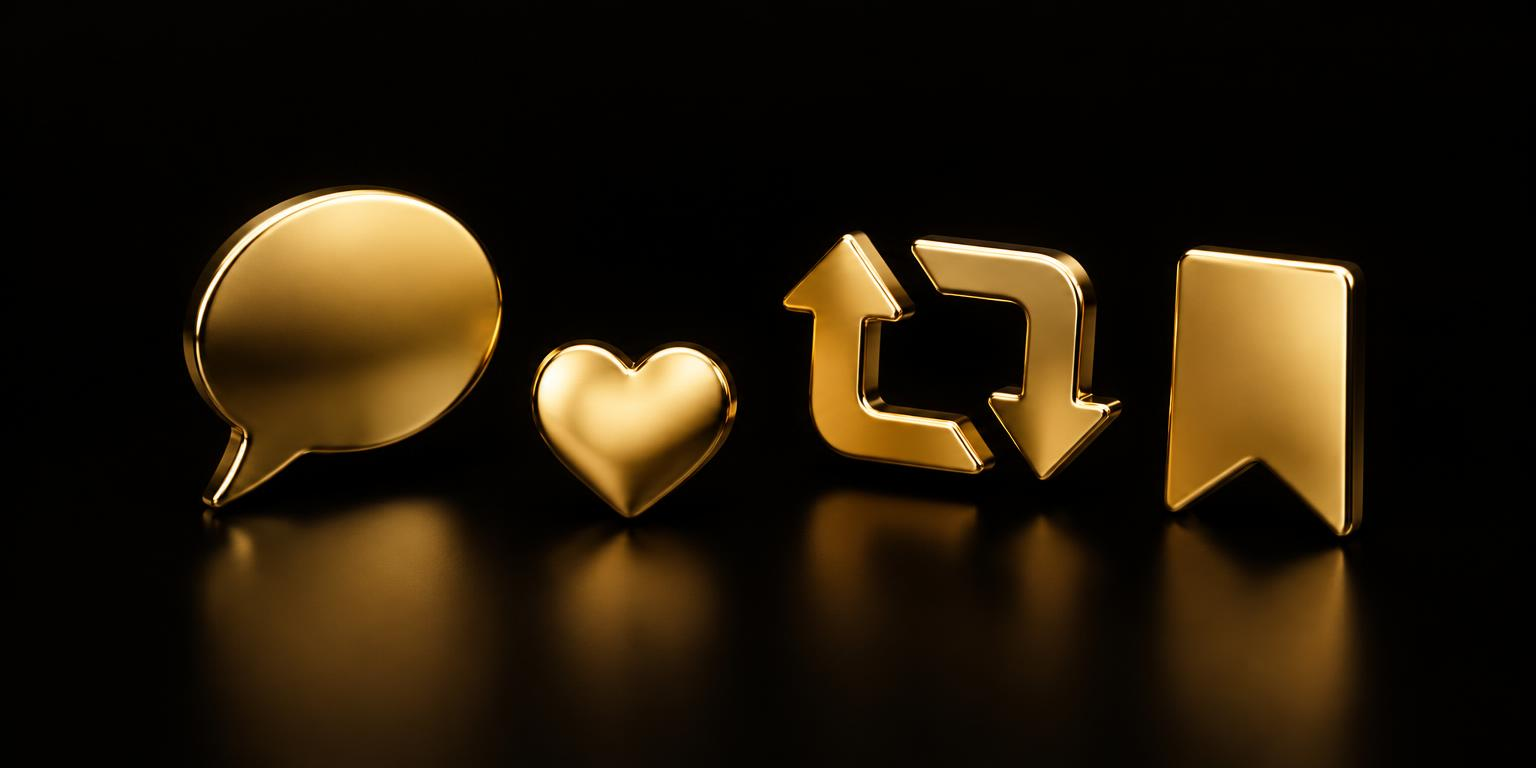
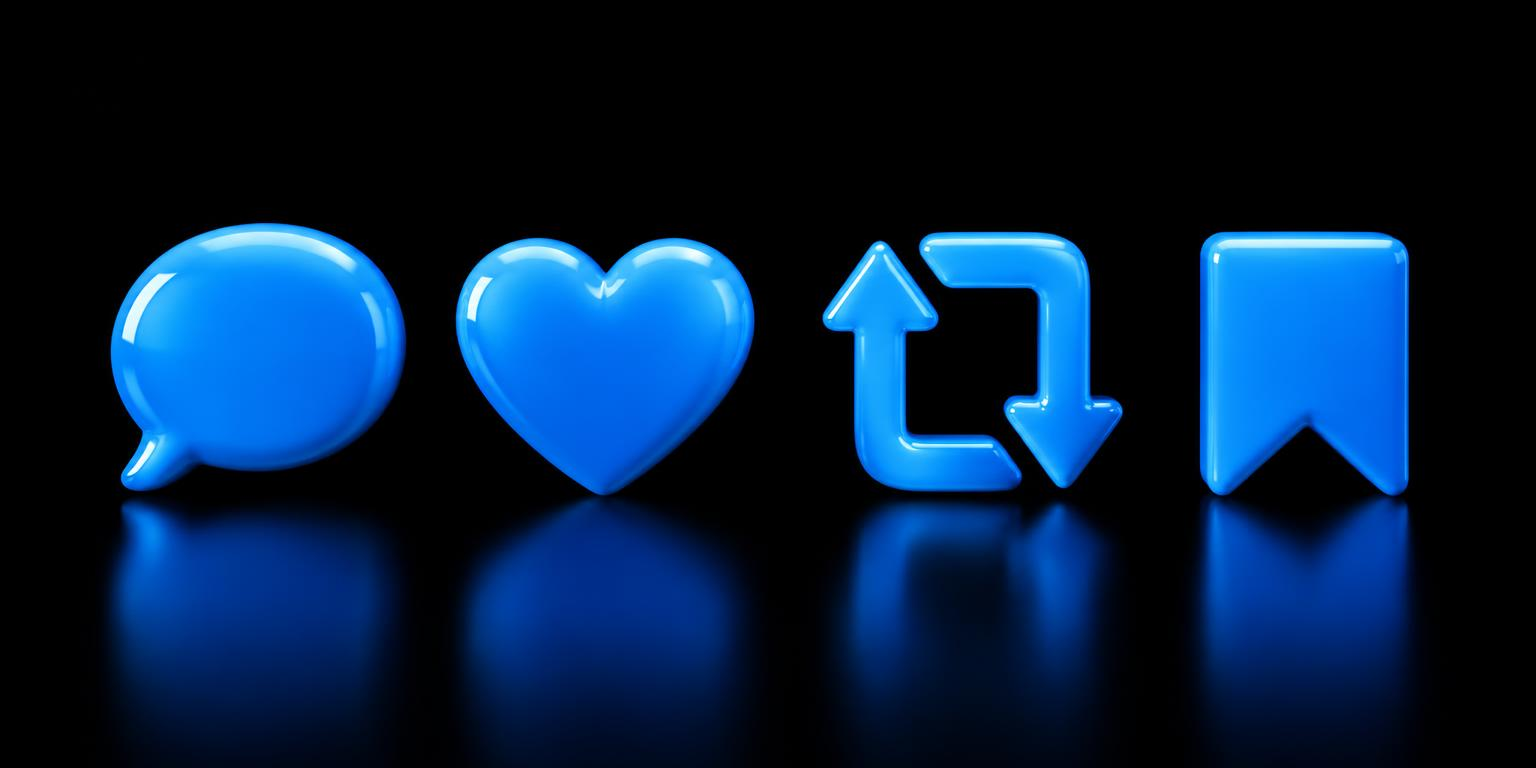
Switch design to black & X blue with Sora typography

diff --git a/src/styles.css b/src/styles.css
@@ -11,7 +11,7 @@
   --radius-xl: calc(var(--radius) + 4px);
   --radius-2xl: calc(var(--radius) + 8px);
   --radius-3xl: calc(var(--radius) + 12px);
-  --font-display: "Cormorant Garamond", ui-serif, Georgia, serif;
+  --font-display: "Sora", ui-sans-serif, system-ui, sans-serif;
   --font-sans: "Manrope", ui-sans-serif, system-ui, sans-serif;
   --color-background: var(--background);
   --color-foreground: var(--foreground);
@@ -49,50 +49,50 @@
 
 :root {
   --radius: 0.875rem;
-  --background: oklch(0.145 0.002 85);
-  --foreground: oklch(0.95 0.02 90);
-  --surface: oklch(0.19 0.008 80);
-  --card: oklch(0.19 0.008 80);
-  --card-foreground: oklch(0.95 0.02 90);
-  --popover: oklch(0.18 0.007 80);
-  --popover-foreground: oklch(0.95 0.02 90);
-  --primary: oklch(0.77 0.13 88);
-  --primary-glow: oklch(0.86 0.1 92);
-  --primary-foreground: oklch(0.16 0.01 85);
-  --secondary: oklch(0.23 0.008 80);
-  --secondary-foreground: oklch(0.95 0.02 90);
-  --muted: oklch(0.22 0.007 80);
-  --muted-foreground: oklch(0.7 0.02 85);
-  --accent: oklch(0.25 0.012 85);
-  --accent-foreground: oklch(0.95 0.02 90);
-  --destructive: oklch(0.62 0.2 25);
+  --background: oklch(0 0 0);
+  --foreground: oklch(0.93 0.004 250);
+  --surface: oklch(0.2 0.02 245);
+  --card: oklch(0.2 0.02 245);
+  --card-foreground: oklch(0.93 0.004 250);
+  --popover: oklch(0.18 0.02 245);
+  --popover-foreground: oklch(0.93 0.004 250);
+  --primary: oklch(0.67 0.17 243);
+  --primary-glow: oklch(0.78 0.13 235);
+  --primary-foreground: oklch(0.99 0 0);
+  --secondary: oklch(0.24 0.02 245);
+  --secondary-foreground: oklch(0.93 0.004 250);
+  --muted: oklch(0.22 0.02 245);
+  --muted-foreground: oklch(0.65 0.015 245);
+  --accent: oklch(0.25 0.025 245);
+  --accent-foreground: oklch(0.93 0.004 250);
+  --destructive: oklch(0.63 0.21 20);
   --destructive-foreground: oklch(0.98 0.005 20);
-  --success: oklch(0.74 0.13 155);
-  --success-foreground: oklch(0.16 0.02 155);
-  --warning: oklch(0.8 0.14 75);
-  --warning-foreground: oklch(0.18 0.02 75);
-  --border: oklch(0.27 0.012 85);
-  --input: oklch(0.27 0.012 85);
-  --ring: oklch(0.77 0.13 88);
-  --sidebar: oklch(0.13 0.003 85);
-  --sidebar-foreground: oklch(0.9 0.015 90);
-  --sidebar-primary: oklch(0.77 0.13 88);
-  --sidebar-primary-foreground: oklch(0.16 0.01 85);
-  --sidebar-accent: oklch(0.21 0.01 85);
-  --sidebar-accent-foreground: oklch(0.95 0.02 90);
-  --sidebar-border: oklch(0.24 0.01 85);
-  --sidebar-ring: oklch(0.77 0.13 88);
+  --success: oklch(0.72 0.15 160);
+  --success-foreground: oklch(0.16 0.02 160);
+  --warning: oklch(0.8 0.15 80);
+  --warning-foreground: oklch(0.18 0.02 80);
+  --border: oklch(0.27 0.015 245);
+  --input: oklch(0.27 0.015 245);
+  --ring: oklch(0.67 0.17 243);
+  --sidebar: oklch(0.1 0.005 245);
+  --sidebar-foreground: oklch(0.88 0.006 250);
+  --sidebar-primary: oklch(0.67 0.17 243);
+  --sidebar-primary-foreground: oklch(0.99 0 0);
+  --sidebar-accent: oklch(0.2 0.02 245);
+  --sidebar-accent-foreground: oklch(0.93 0.004 250);
+  --sidebar-border: oklch(0.22 0.015 245);
+  --sidebar-ring: oklch(0.67 0.17 243);
 
-  --gradient-gold: linear-gradient(135deg, oklch(0.86 0.1 92), oklch(0.74 0.14 80) 50%, oklch(0.6 0.11 70));
+  --gradient-brand: linear-gradient(135deg, oklch(0.8 0.12 230), oklch(0.67 0.17 243) 55%, oklch(0.55 0.19 255));
   --gradient-hero: radial-gradient(
       90% 70% at 50% -10%,
-      color-mix(in oklab, var(--primary) 16%, transparent),
+      color-mix(in oklab, var(--primary) 20%, transparent),
       transparent 60%
     ),
     linear-gradient(180deg, var(--background), var(--background));
   --shadow-elevated: 0 30px 80px -40px oklch(0 0 0 / 0.9);
   --shadow-glow: 0 0 0 1px color-mix(in oklab, var(--primary) 30%, transparent),
-    0 20px 60px -28px color-mix(in oklab, var(--primary) 50%, transparent);
+    0 20px 60px -28px color-mix(in oklab, var(--primary) 55%, transparent);
 }
 
 @layer base {
@@ -112,7 +112,7 @@
   h3,
   h4 {
     font-family: var(--font-display);
-    letter-spacing: -0.01em;
+    letter-spacing: -0.035em;
     font-weight: 600;
   }
 }
@@ -136,18 +136,18 @@
   box-shadow: var(--shadow-elevated);
 }
 
-@utility text-gold {
-  background: var(--gradient-gold);
+@utility text-brand {
+  background: var(--gradient-brand);
   -webkit-background-clip: text;
   background-clip: text;
   color: transparent;
 }
 
-@utility bg-gold {
-  background: var(--gradient-gold);
+@utility bg-brand {
+  background: var(--gradient-brand);
 }
 
-@utility gold-hairline {
+@utility brand-hairline {
   background: linear-gradient(90deg, transparent, color-mix(in oklab, var(--primary) 60%, transparent), transparent);
   height: 1px;
 }

diff --git a/src/routes/index.tsx b/src/routes/index.tsx
@@ -130,7 +130,7 @@ function Landing() {
             <Button asChild variant="ghost" size="sm" className="hidden md:inline-flex">
               <a href={POST_LISTING_URL}>For founders</a>
             </Button>
-            <Button asChild size="sm" className="bg-gold px-4 text-primary-foreground hover:opacity-90">
+            <Button asChild size="sm" className="bg-brand px-4 text-primary-foreground hover:opacity-90">
               <Link to={cta}>
                 {user ? "Dashboard" : "Apply now"}
                 <ArrowRight className="ml-1 h-4 w-4" />
@@ -151,10 +151,10 @@ function Landing() {
               <span className="inline-flex items-center gap-2 rounded-full border border-primary/30 bg-primary/5 px-3.5 py-1.5 text-xs tracking-wide text-primary">
                 <XGlyph className="h-3 w-3" /> By invitation · Curated X launches
               </span>
-              <h1 className="mt-7 text-5xl leading-[0.98] md:text-7xl">
+              <h1 className="mt-7 text-4xl font-semibold leading-[1.05] md:text-6xl">
                 Your X account,
                 <br />
-                <em className="text-gold not-italic md:italic">finally worth gold.</em>
+                <em className="text-brand not-italic">finally pays off.</em>
               </h1>
               <p className="mx-auto mt-6 max-w-lg text-base leading-relaxed text-muted-foreground md:mx-0 md:text-lg">
                 Founders launching on X need real people in their replies. Join a private circle of
@@ -162,7 +162,7 @@ function Landing() {
                 every task pack you complete.
               </p>
               <div className="mt-9 flex flex-wrap items-center justify-center gap-3 md:justify-start">
-                <Button asChild size="lg" className="bg-gold h-12 px-7 text-primary-foreground hover:opacity-90">
+                <Button asChild size="lg" className="bg-brand h-12 px-7 text-primary-foreground hover:opacity-90">
                   <Link to={cta}>
                     {user ? "Go to dashboard" : "Apply with your X account"}
                     <ArrowRight className="ml-1 h-4 w-4" />
@@ -192,10 +192,10 @@ function Landing() {
                   <XGlyph className="text-muted-foreground" />
                 </div>
                 <div className="mt-6 flex items-baseline gap-2">
-                  <span className="text-gold font-display text-7xl font-semibold">${PAYOUT_PACK}</span>
+                  <span className="text-brand font-display text-7xl font-semibold">${PAYOUT_PACK}</span>
                   <span className="text-sm text-muted-foreground">per launch post</span>
                 </div>
-                <div className="gold-hairline my-6" />
+                <div className="brand-hairline my-6" />
                 <ul className="grid grid-cols-2 gap-3">
                   {actions.map((a) => (
                     <li
@@ -236,7 +236,7 @@ function Landing() {
             <div className="text-center">
               <p className="text-xs font-semibold uppercase tracking-[0.3em] text-primary">Membership</p>
               <h2 className="mt-3 text-4xl md:text-5xl">
-                Reserved for <em className="text-gold">quality</em> accounts
+                Reserved for <em className="text-brand not-italic">quality</em> accounts
               </h2>
               <p className="mx-auto mt-4 max-w-xl text-sm text-muted-foreground">
                 Founders pay for genuine voices. Every X account is reviewed by hand before it gets access.
@@ -287,12 +287,12 @@ function Landing() {
 
         <section className="mx-auto max-w-3xl px-5 py-28 text-center">
           <h2 className="text-5xl md:text-6xl">
-            Turn your timeline <em className="text-gold">into income.</em>
+            Turn your timeline <em className="text-brand not-italic">into income.</em>
           </h2>
           <p className="mx-auto mt-4 max-w-lg text-sm text-muted-foreground">
             Free to apply. Manual review before access to missions.
           </p>
-          <Button asChild size="lg" className="bg-gold mt-9 h-12 px-8 text-primary-foreground hover:opacity-90">
+          <Button asChild size="lg" className="bg-brand mt-9 h-12 px-8 text-primary-foreground hover:opacity-90">
             <Link to="/auth">
               Apply now <ArrowRight className="ml-1 h-4 w-4" />
             </Link>

diff --git a/src/routes/blog.index.tsx b/src/routes/blog.index.tsx
@@ -19,7 +19,7 @@ function BlogIndex() {
       <div><p className="mb-3 text-sm font-medium text-primary">THE CONTRIBUTOR JOURNAL</p><h1 className="text-4xl font-bold tracking-normal sm:text-5xl">The Aurum Journal</h1><p className="mt-4 max-w-xl text-base text-muted-foreground">Real accounts. Curated launches. Clear answers.</p></div>
       <span className="text-sm text-muted-foreground">Guides from the Aurum team</span>
     </div>
-    <img src={editorialImage} alt="Gold reply, like, repost and bookmark icons on black" width={1536} height={768} className="mb-10 aspect-[2/1] w-full rounded-lg object-cover sm:aspect-[3/1]" fetchPriority="high" />
+    <img src={editorialImage} alt="Blue reply, like, repost and bookmark icons on black" width={1536} height={768} className="mb-10 aspect-[2/1] w-full rounded-lg object-cover sm:aspect-[3/1]" fetchPriority="high" />
     <section aria-label="Latest articles" className="grid gap-0 md:grid-cols-3 md:gap-8">
       {blogArticles.map((article, index) => <article key={article.slug} className="flex flex-col border-t border-border py-7">
         <div className="mb-5 flex items-center justify-between text-xs text-muted-foreground"><span className="font-medium text-primary">{article.category}</span><span>0{index + 1}</span></div>

diff --git a/src/components/brand.tsx b/src/components/brand.tsx
@@ -3,20 +3,20 @@ import { cn } from "@/lib/utils";
 
 export const BRAND_NAME = "Aurum";
 
-/** Gold monogram + wordmark used across every page header. */
+/** Brand monogram + wordmark used across every page header. */
 export function BrandMark({ className, size = "md" }: { className?: string; size?: "sm" | "md" }) {
   return (
     <span className={cn("inline-flex items-center gap-2.5", className)}>
       <span
         aria-hidden
         className={cn(
-          "bg-gold relative inline-flex shrink-0 items-center justify-center rounded-lg font-display font-bold text-primary-foreground shadow-[var(--shadow-glow)]",
+          "bg-brand relative inline-flex shrink-0 items-center justify-center rounded-lg font-display font-bold text-primary-foreground shadow-[var(--shadow-glow)]",
           size === "sm" ? "h-6 w-6 text-sm" : "h-8 w-8 text-lg",
         )}
       >
         A
       </span>
-      <span className={cn("font-display font-semibold tracking-wide", size === "sm" ? "text-base" : "text-xl")}>
+      <span className={cn("font-display font-semibold tracking-tight", size === "sm" ? "text-base" : "text-xl")}>
         Aurum<span className="text-primary">.</span>
       </span>
     </span>

diff --git a/src/routes/auth.tsx b/src/routes/auth.tsx
@@ -262,7 +262,7 @@ function AuthPage() {
           <BrandMark />
         </Link>
 
-      <h1 className="mb-2 text-center text-4xl md:text-5xl">Join the <em className="text-gold">circle</em></h1>
+      <h1 className="mb-2 text-center text-4xl md:text-5xl">Join the <em className="text-brand not-italic">circle</em></h1>
       <p className="mb-8 text-center text-sm text-muted-foreground">Paid task packs for verified X users.</p>
 
       <div className="panel elevated w-full max-w-md p-6">
@@ -293,7 +293,7 @@ function AuthPage() {
                   maxLength={255}
                 />
               </div>
-              <Button type="submit" className="bg-gold w-full text-primary-foreground hover:opacity-90" disabled={loading}>
+              <Button type="submit" className="bg-brand w-full text-primary-foreground hover:opacity-90" disabled={loading}>
                 Apply with my X account
               </Button>
               <p className="text-center text-xs text-muted-foreground">

diff --git a/src/routes/discover.tsx b/src/routes/discover.tsx
@@ -44,7 +44,7 @@ function DiscoverPage() {
             <Button asChild variant="ghost" size="sm" className="hidden sm:inline-flex">
               <Link to="/blog">Journal</Link>
             </Button>
-            <Button asChild size="sm" className="bg-gold px-4 text-primary-foreground hover:opacity-90">
+            <Button asChild size="sm" className="bg-brand px-4 text-primary-foreground hover:opacity-90">
               <Link to={user ? "/opportunities/comments" : "/auth"}>
                 <span className="sm:hidden">{user ? "Dashboard" : "Get started"}</span>
                 <span className="hidden sm:inline">{user ? "Go to dashboard" : "Apply now"}</span>

diff --git a/src/routes/__root.tsx b/src/routes/__root.tsx
@@ -104,7 +104,7 @@ export const Route = createRootRouteWithContext<{ queryClient: QueryClient }>()(
       { rel: "preconnect", href: "https://fonts.gstatic.com", crossOrigin: "anonymous" },
       {
         rel: "stylesheet",
-        href: "https://fonts.googleapis.com/css2?family=Cormorant+Garamond:ital,wght@0,500;0,600;0,700;1,500;1,600&family=Manrope:wght@400;500;600;700&display=swap",
+        href: "https://fonts.googleapis.com/css2?family=Sora:wght@400;500;600;700&family=Manrope:wght@400;500;600;700&display=swap",
       },
     ],
     scripts: [
